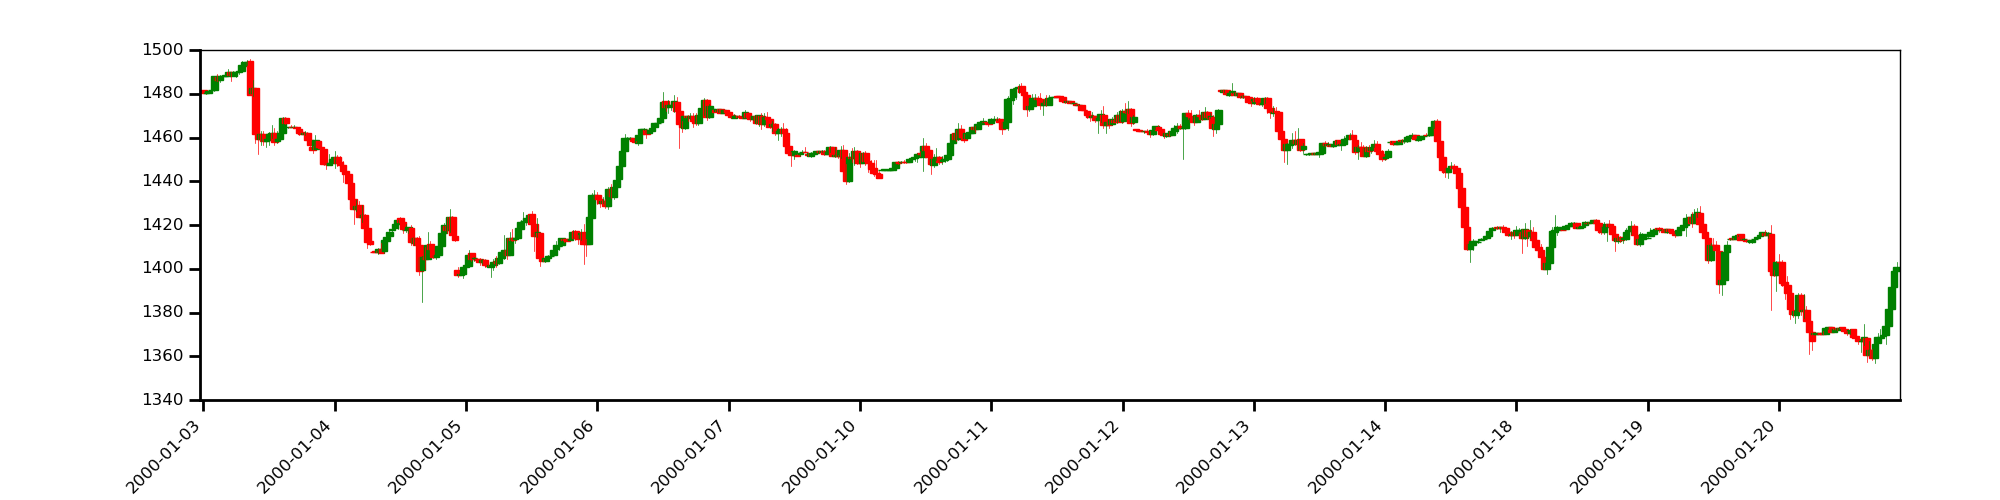
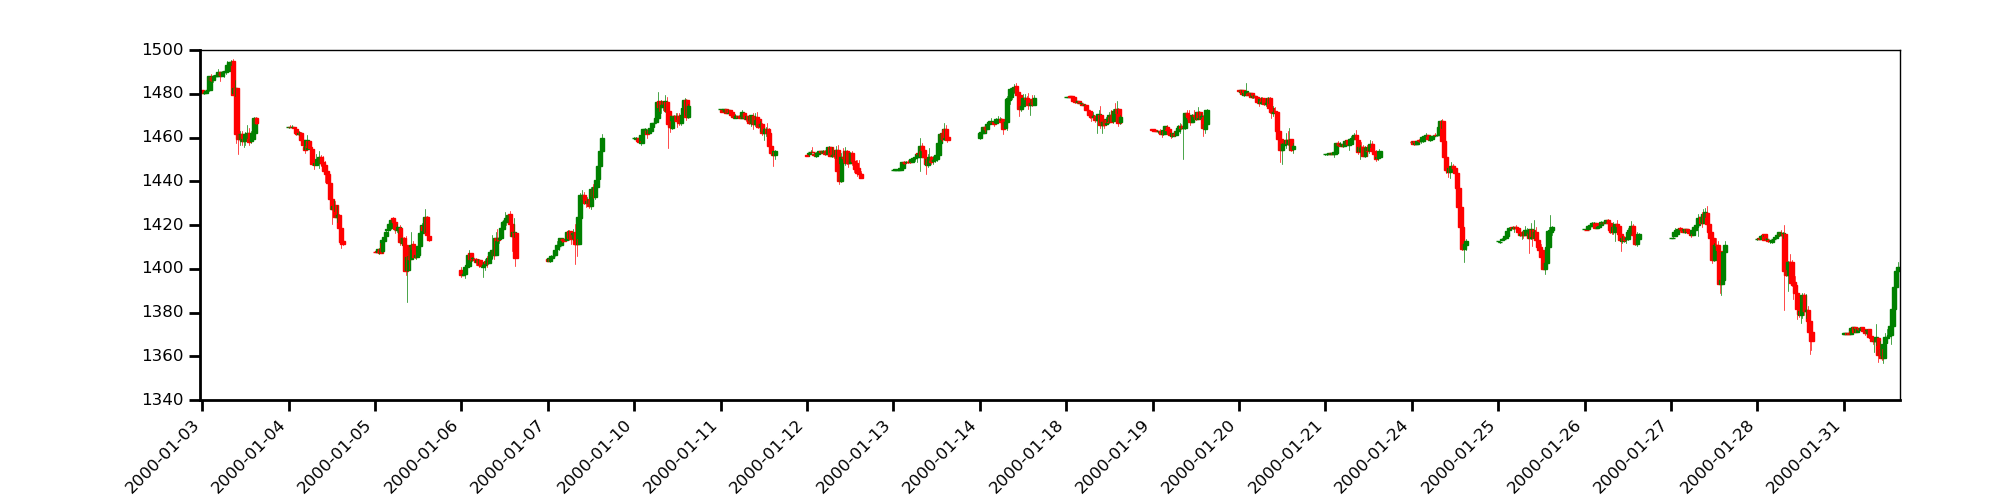
gssgrgrg

Changed region(s): [[0.093, 0.12, 0.961, 0.72], [0.341, 0.84, 0.93, 0.99], [0.062, 0.84, 0.341, 0.99]]

diff --git a/analize/charting_data.py b/analize/charting_data.py
@@ -1,4 +1,5 @@
 import datetime
+import math
 
 import matplotlib.pyplot as plt
 import matplotlib.ticker as ticker
@@ -16,7 +17,18 @@ for i in range(1):  # len(df.columns)):
     price['DT'] = pd.to_datetime(price['DT'])
     price['num_date'] = price['DT'].apply(date2num)
     price['my_date'] = np.trunc(price['num_date'])
-    price['new_date'] = [price['num_date'][0] + i * .020833 for i in np.arange(len(price['num_date']))]
+    new_date = [price['num_date'][0]]
+
+    for i in np.arange(1, len(price['num_date'])):
+        diff = price['num_date'][i] - new_date[-1]
+        if diff < 1:
+           new_date.append(price['num_date'][i])
+        else:
+           new_date.append(price['num_date'][i]-math.floor(diff)) 
+             
+    # price['new_date'] = [price['num_date'][0] + i * .020833 for i in np.arange(len(price['num_date']))]
+    price['new_date'] = new_date
+    # pd.set_option('display.max_rows', len(price))
     # print price    
 
     ndays = np.unique(np.trunc(price['num_date']), return_index=True)
